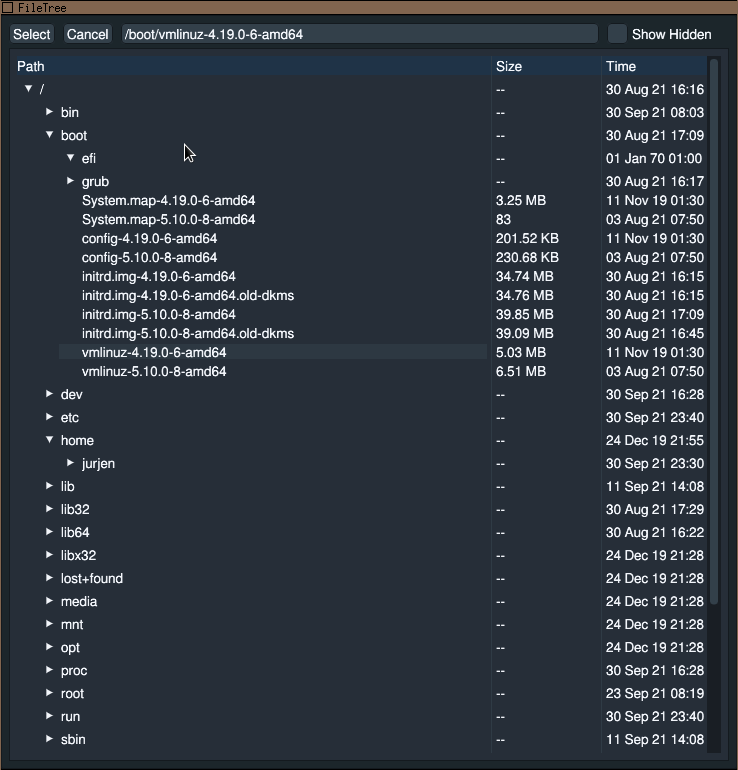
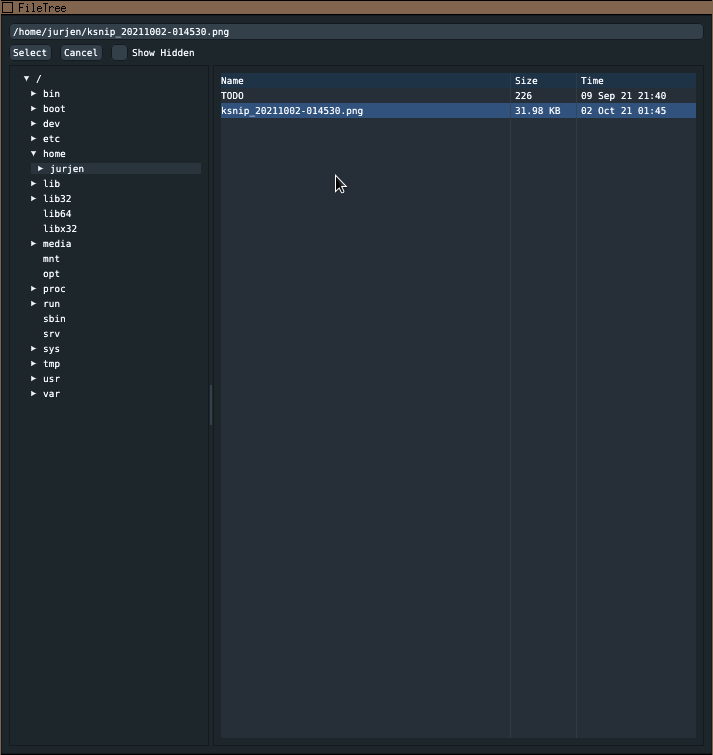
updated screenshot

diff --git a/main.go b/main.go
@@ -7,27 +7,32 @@ package main
 import (
 	"fmt"
 	"io/fs"
+	"log"
+	"strings"
 
 	//"log"
 	"os"
 
-	G "github.com/AllenDang/giu"
-	I "github.com/AllenDang/imgui-go"
+	"path/filepath"
+
+	"github.com/AllenDang/giu"
+	"github.com/AllenDang/imgui-go"
 )
 
 var (
 	statCache       = make(map[string]fs.FileInfo)
 	dirCache        = make(map[string][]fs.FileInfo)
 	showHiddenFiles = false
-	selectedFile    string
-	currentDir      string
+	selectedFile    string //full path of file selected in fileTable
+	currentDir      string //full path of directory selected in dirTree
+	startDir        string //starting directory arg or cwd()
 )
 
 const (
 	timeFmt    = "02 Jan 06 15:04"
-	nodeFlags  = I.TreeNodeFlagsOpenOnArrow | I.TreeNodeFlagsOpenOnDoubleClick
-	leafFlags  = I.TreeNodeFlagsLeaf
-	tableFlags = I.TableFlags_ScrollX | I.TableFlags_ScrollY | I.TableFlags_Resizable | I.TableFlags_SizingStretchProp
+	nodeFlags  = imgui.TreeNodeFlagsOpenOnArrow | imgui.TreeNodeFlagsOpenOnDoubleClick
+	leafFlags  = imgui.TreeNodeFlagsLeaf
+	tableFlags = imgui.TableFlags_ScrollX | imgui.TableFlags_ScrollY | imgui.TableFlags_Resizable | imgui.TableFlags_SizingStretchProp
 )
 
 func mkSize(sz_ int64) string {
@@ -72,10 +77,7 @@ func readDir(path string) ([]fs.FileInfo, error) {
 		}
 		entry := make([]fs.FileInfo, len(direntry))
 		for i, f := range direntry {
-			childPath := path + "/" + f.Name()
-			if path == "/" {
-				childPath = "/" + f.Name()
-			}
+			childPath := filepath.Join(path, f.Name())
 
 			if f.Type()&fs.ModeSymlink == 0 {
 				entry[i], err = f.Info()
@@ -115,7 +117,7 @@ func getDirInfo(path string) (int, fs.FileInfo, []fs.FileInfo, bool) {
 	}
 
 	if path == currentDir {
-		flags |= I.TreeNodeFlagsSelected
+		flags |= imgui.TreeNodeFlagsSelected
 	}
 
 	return flags, info, entries, true
@@ -127,24 +129,25 @@ func dirTree(path string) {
 		return
 	}
 
-	I.PushStyleVarFloat(I.StyleVarIndentSpacing, 7)
-	open := I.TreeNodeV(info.Name(), flags)
-	if I.IsItemClicked(int(G.MouseButtonLeft)) {
+	if strings.HasPrefix(startDir, path) {
+		flags |= imgui.TreeNodeFlagsDefaultOpen
+	}
+
+	imgui.PushStyleVarFloat(imgui.StyleVarIndentSpacing, 7)
+	open := imgui.TreeNodeV(info.Name(), flags)
+	if imgui.IsItemClicked(int(giu.MouseButtonLeft)) {
 		currentDir = path
 	}
 	if open {
-		defer I.TreePop()
+		defer imgui.TreePop()
 		for _, e := range entries {
 			if e.IsDir() {
-				name := path + "/" + e.Name()
-				if path == "/" {
-					name = name[1:]
-				}
+				name := filepath.Join(path, e.Name())
 				dirTree(name)
 			}
 		}
 	}
-	I.PopStyleVar()
+	imgui.PopStyleVar()
 }
 
 func isHidden(entry fs.FileInfo) bool {
@@ -152,13 +155,14 @@ func isHidden(entry fs.FileInfo) bool {
 }
 
 func fileTable() {
-	if I.BeginTable("FSTable", 3, tableFlags, I.ContentRegionAvail(), 0) {
-		defer I.EndTable()
-		I.TableSetupColumn("Path", 0, 10, 0)
-		I.TableSetupColumn("Size", 0, 2, 0)
-		I.TableSetupColumn("Time", 0, 4, 0)
-		I.TableSetupScrollFreeze(1, 1)
-		I.TableHeadersRow()
+	if imgui.BeginTable("FSTable", 3, tableFlags, imgui.ContentRegionAvail(), 0) {
+		defer imgui.EndTable()
+		imgui.TableSetupColumn("Name", 0, 10, 0)
+		imgui.TableSetupColumn("Size", 0, 2, 0)
+		imgui.TableSetupColumn("Time", 0, 4, 0)
+		imgui.TableSetupScrollFreeze(1, 1)
+		imgui.TableHeadersRow()
+		//TODO: set up sorting
 
 		entries, err := readDir(currentDir)
 		if err != nil {
@@ -168,26 +172,23 @@ func fileTable() {
 			if e.IsDir() || isHidden(e) {
 				continue
 			}
-			path := currentDir + "/" + e.Name()
-			if currentDir == "/" {
-				path = path[1:]
-			}
+			path := filepath.Join(currentDir, e.Name())
 
-			I.TableNextRow(0, 0)
+			imgui.TableNextRow(0, 0)
 			if path == selectedFile {
-				color := I.GetColorU32(I.CurrentStyle().GetColor(I.StyleColorTextSelectedBg))
-				I.TableSetBgColor(I.TableBgTarget_RowBg0, uint32(color), -1)
+				color := imgui.GetColorU32(imgui.CurrentStyle().GetColor(imgui.StyleColorTextSelectedBg))
+				imgui.TableSetBgColor(imgui.TableBgTarget_RowBg0, uint32(color), -1)
 			}
 
-			I.TableNextColumn()
-			I.Text(e.Name())
-			if I.IsItemClicked(int(G.MouseButtonLeft)) {
+			imgui.TableNextColumn()
+			imgui.Text(e.Name())
+			if imgui.IsItemClicked(int(giu.MouseButtonLeft)) {
 				selectedFile = path
 			}
-			I.TableNextColumn()
-			I.Text(mkSize(e.Size()))
-			I.TableNextColumn()
-			I.Text(e.ModTime().Format(timeFmt))
+			imgui.TableNextColumn()
+			imgui.Text(mkSize(e.Size()))
+			imgui.TableNextColumn()
+			imgui.Text(e.ModTime().Format(timeFmt))
 		}
 	}
 }
@@ -201,23 +202,42 @@ func cancel() {
 	os.Exit(1)
 }
 
+func mkNavBar() {
+	width, _ := giu.GetAvailableRegion()
+	giu.InputText(&selectedFile).Size(width).Build()
+}
+
 func loop() {
-	G.SingleWindow().Layout(
-		G.Row(
-			G.Button("Select").OnClick(selectFile),
-			G.Button("Cancel").OnClick(cancel),
-			G.InputText(&selectedFile),
-			G.Checkbox("Show Hidden", &showHiddenFiles),
+	giu.SingleWindow().Layout(
+		giu.Custom(mkNavBar),
+		giu.Row(
+			giu.Button("Select").OnClick(selectFile),
+			giu.Button("Cancel").OnClick(cancel),
+			giu.Checkbox("Show Hidden", &showHiddenFiles),
 		),
-		G.SplitLayout(G.DirectionHorizontal, true, 200,
-			G.Custom(func() { dirTree("/") }),
-			G.Custom(fileTable),
+		giu.SplitLayout(giu.DirectionHorizontal, true, 200,
+			giu.Custom(func() { dirTree(filepath.FromSlash("/")) }),
+			giu.Custom(fileTable),
 		),
 	)
 }
 
 func main() {
-	G.SetDefaultFont("DejavuSansMono.ttf", 12)
-	w := G.NewMasterWindow("FileTree", 800, 600, 0)
+	if len(os.Args) == 1 {
+		startDir, _ = filepath.Abs(".")
+	} else {
+		startDir = os.Args[1]
+		st, err := statFile(startDir)
+		if err != nil {
+			log.Fatalf("starting directory '%s': %v\n", startDir, err)
+		}
+		if !st.IsDir() {
+			log.Fatalf("starting path '%s': not a directory\n", startDir)
+		}
+		startDir, _ = filepath.Abs(startDir)
+	}
+	currentDir = startDir
+	giu.SetDefaultFont("DejavuSansMono.ttf", 11)
+	w := giu.NewMasterWindow("FileTree", 800, 600, 0)
 	w.Run(loop)
 }
